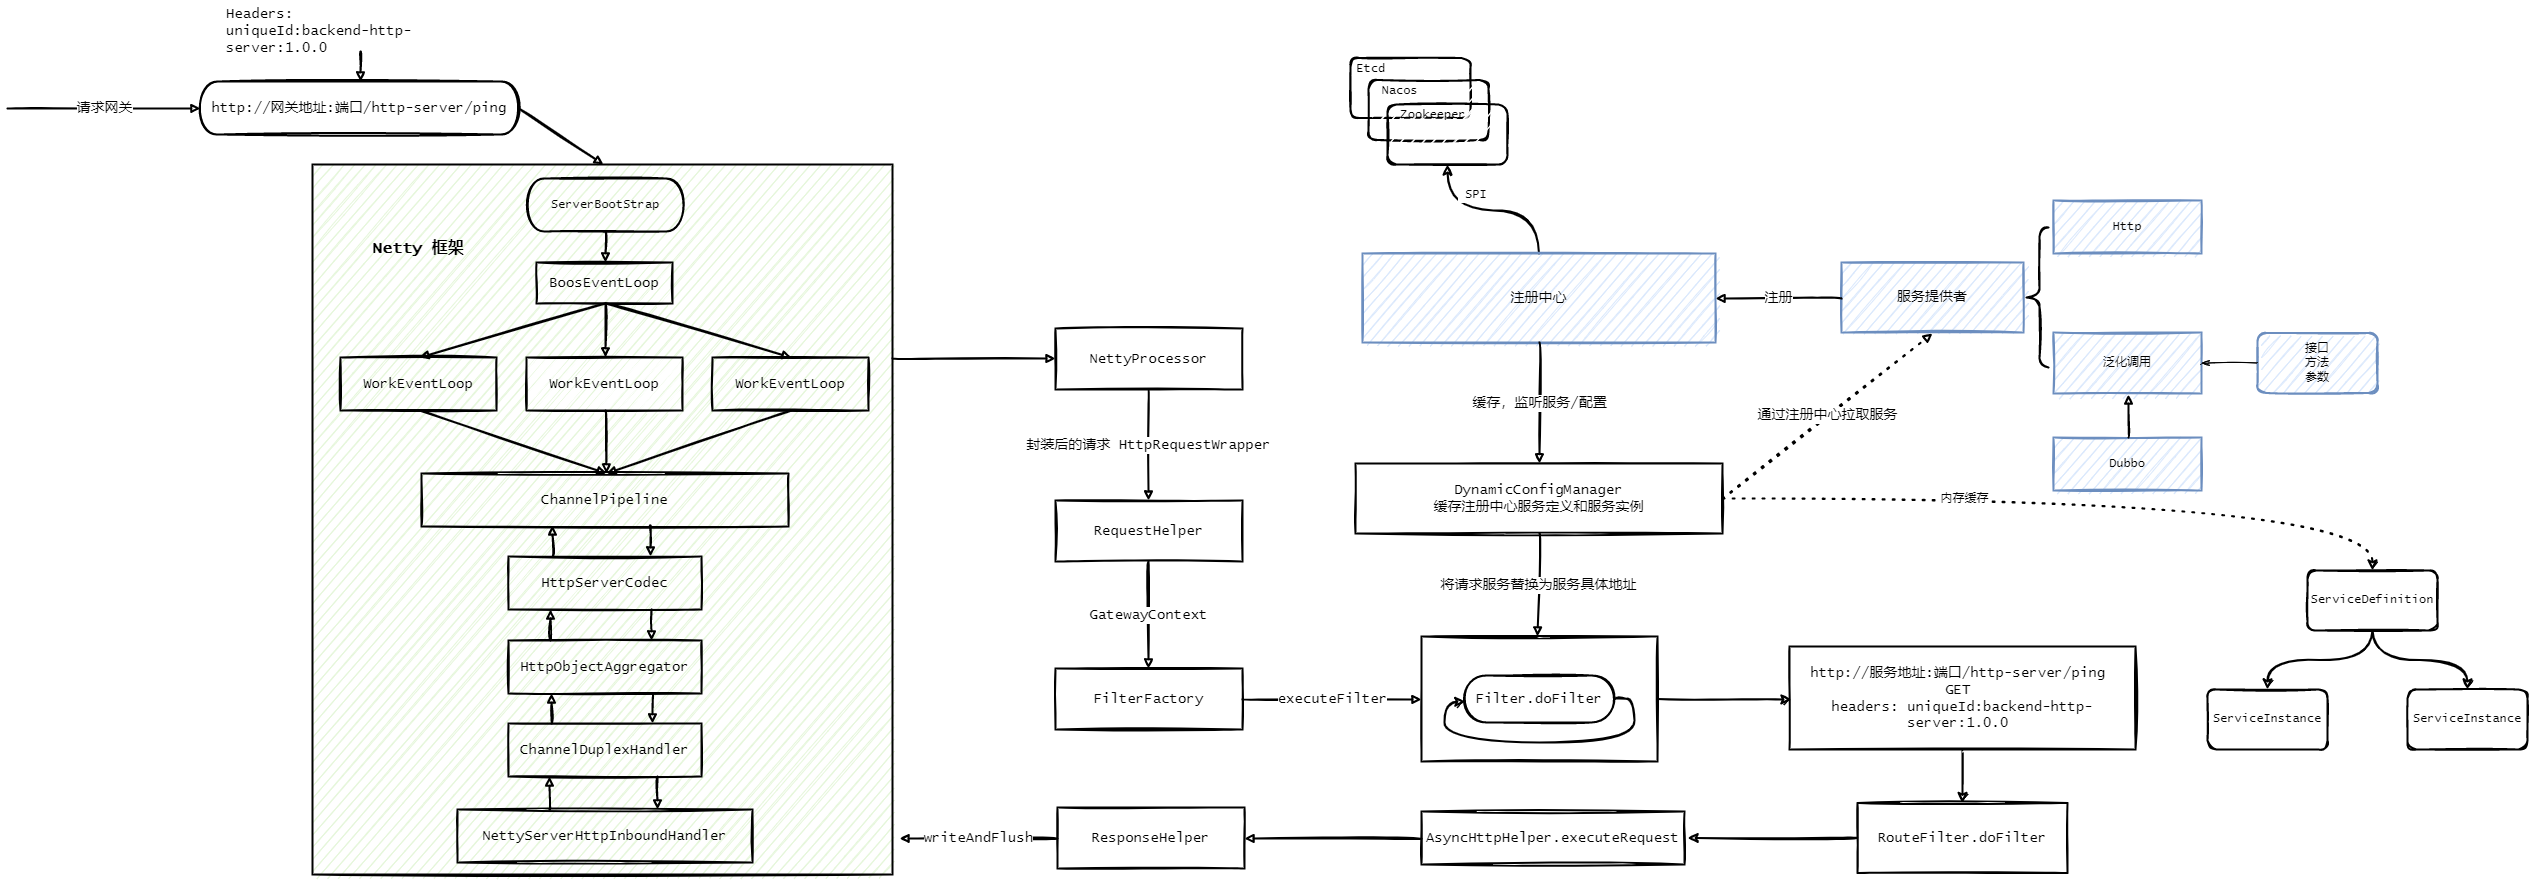
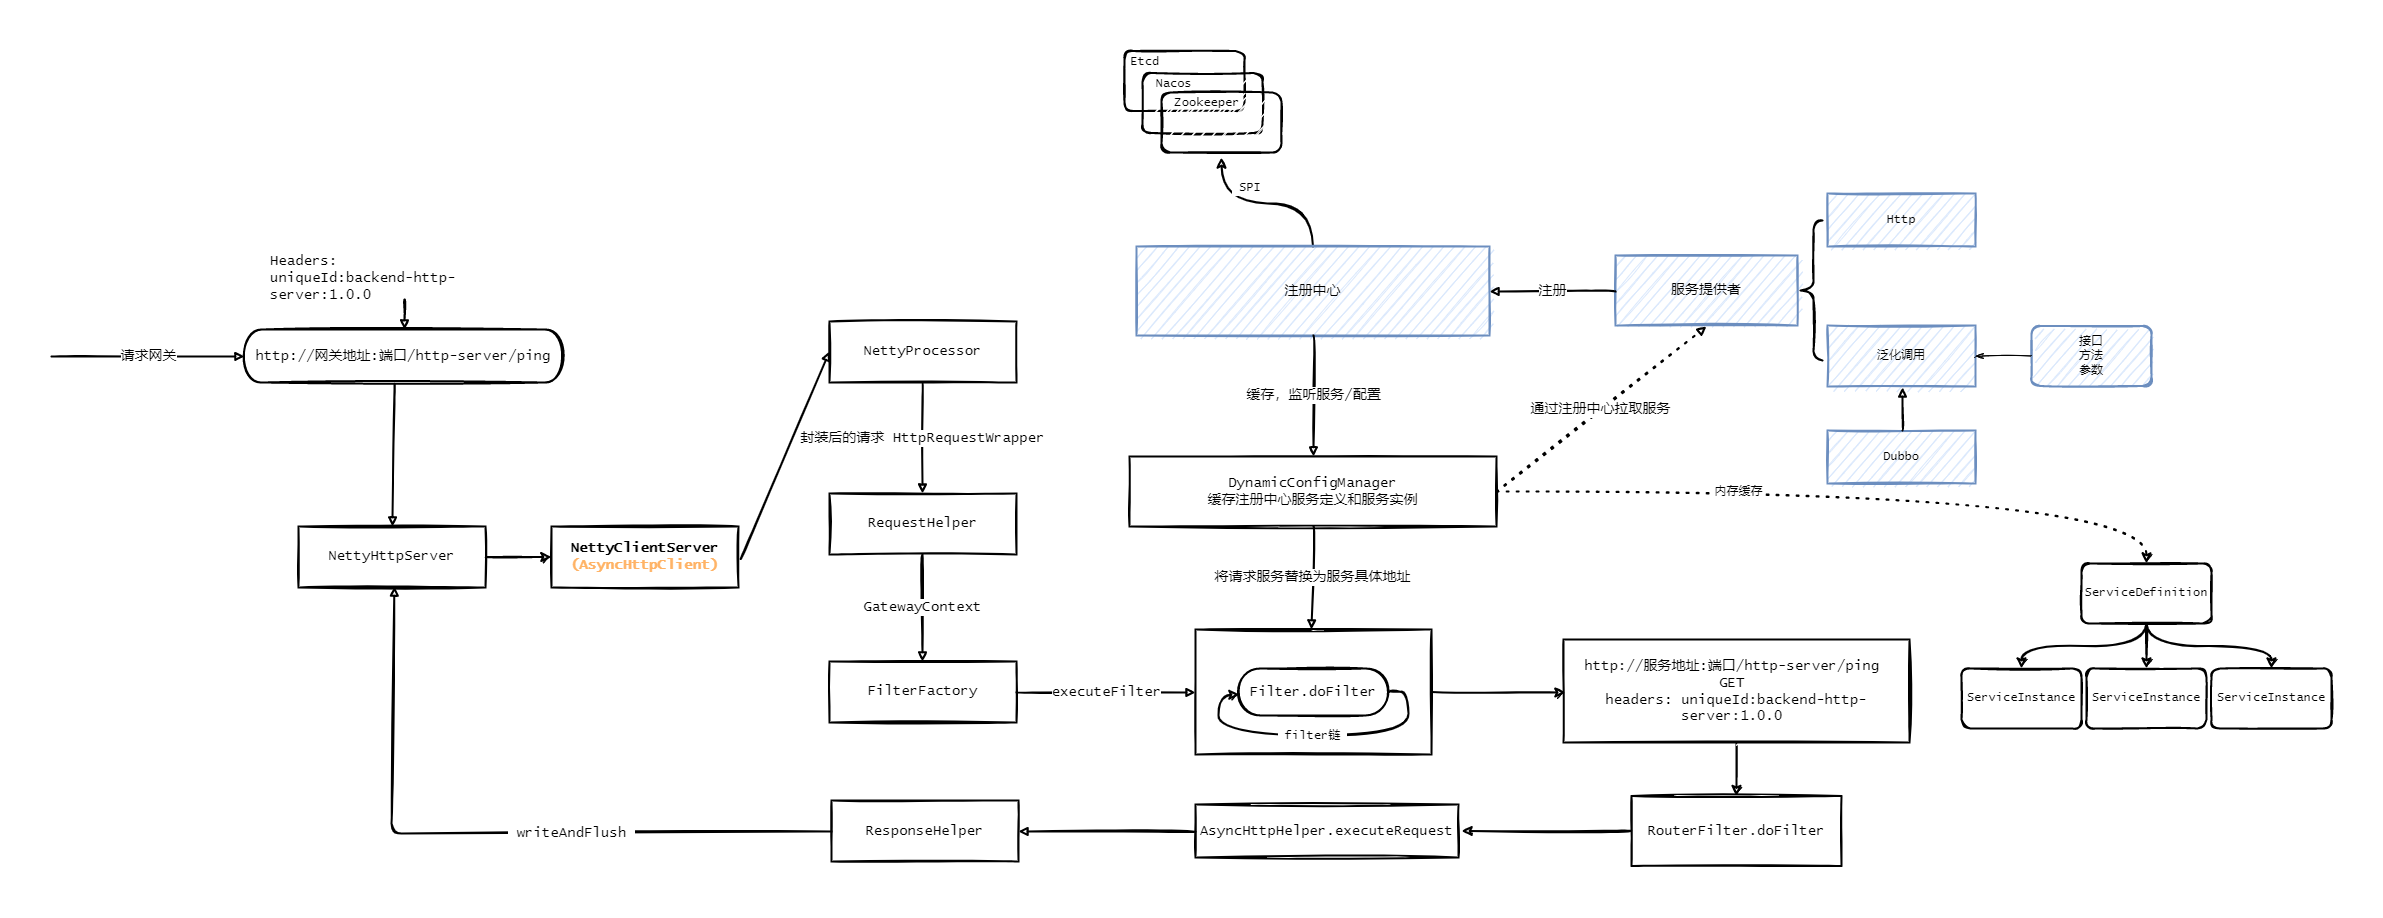
更新文档

diff --git a/readme.md b/readme.md
@@ -1,18 +1,18 @@
 ### 网关设计
 
-![gateway](./assets/gateway.svg)
+![gateway](./assets/gateway.png)
 
 ### 网关模块介绍
 
 | 模块                                                         | 介绍                                                         |
 | ------------------------------------------------------------ | ------------------------------------------------------------ |
-| [backend-dubbo-server](https://github.com/guohaichen/api-gateway/tree/main/backend-dubbo-server) | 后端 dubbo 服务提供者，http 访问，api-gateway 泛化调用 dubbo 服务返回响应；*待完善更新，泛化调用中的参数未解析* |
-| [backend-http-server](https://github.com/guohaichen/api-gateway/tree/main/backend-http-server) | 后端 http 服务提供者；                                       |
+| [backend-dubbo-server](https://github.com/guohaichen/api-gateway/tree/main/backend-dubbo-server) | demo用，后端 dubbo 服务提供者，http 访问，api-gateway 泛化调用 dubbo 服务返回响应；*待完善更新，泛化调用中的参数未解析*； |
+| [backend-http-server](https://github.com/guohaichen/api-gateway/tree/main/backend-http-server) | demo用，后端 http 服务提供者；                               |
 | [gateway-client](https://github.com/guohaichen/api-gateway/tree/main/gateway-client) | 服务提供者引入该包，定义了核心注解，扫描服务提供端[http,dubbo]的方法并**注册**到注册中心和配置中心； |
 | [gateway-common](https://github.com/guohaichen/api-gateway/tree/main/gateway-common) | 公共包，定义配置**规则 Rule**，**服务定义 ServiceDefinition**，**服务实例 ServiceInstance**，常量，响应状态码，异常状态码，工具类等； |
-| [gateway-config-center](https://github.com/guohaichen/api-gateway/tree/main/gateway-config-center) | 配置中心实现，支持 nacos, zookeeper;                         |
-| [gateway-core](https://github.com/guohaichen/api-gateway/tree/main/gateway-core) | 核心包，构建 netty 服务，过滤器工厂对消息流转负载均衡下发，限流，验证，路由等； |
-| [gateway-register-center](https://github.com/guohaichen/api-gateway/tree/main/gateway-register-center) | 注册中心，支持 nacos, zookeeper;                             |
+| [gateway-config-center](https://github.com/guohaichen/api-gateway/tree/main/gateway-config-center) | 配置中心实现，支持 nacos, zookeeper，etcd;                   |
+| [gateway-core](https://github.com/guohaichen/api-gateway/tree/main/gateway-core) | 核心包，构建 **netty http** 服务。netty 作为外部请求的连接，使用`AsyncHttpClient`流转内部服务经过一系列`Filter`并响应； |
+| [gateway-register-center](https://github.com/guohaichen/api-gateway/tree/main/gateway-register-center) | 注册中心，支持 nacos, zookeeper，etcd;                       |
 
 ### 快速开始
 
@@ -22,7 +22,7 @@
 >
 >     
 >
->     ![image-20240305160205260](./assets/image-20240305160205260.png)
+> ![image-20240305160205260](./assets/image-20240305160205260.png)
 >
 > 2. 后端服务提供者也需要配置中心中心服务的地址和端口，写在springboot配置文件中，以及接口类型（**api.type**），比如是 http/dubbo 服务 对应的值为 `mvc`/`dubbo`接口 例如：
 >
